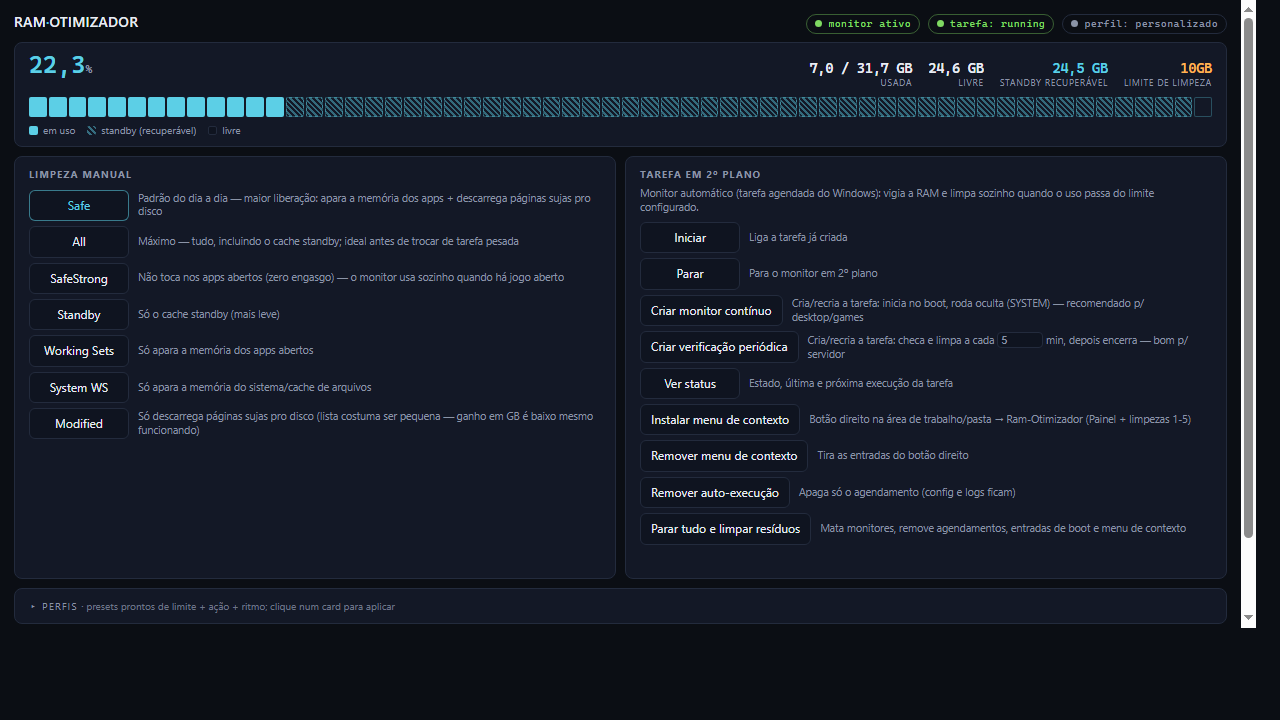
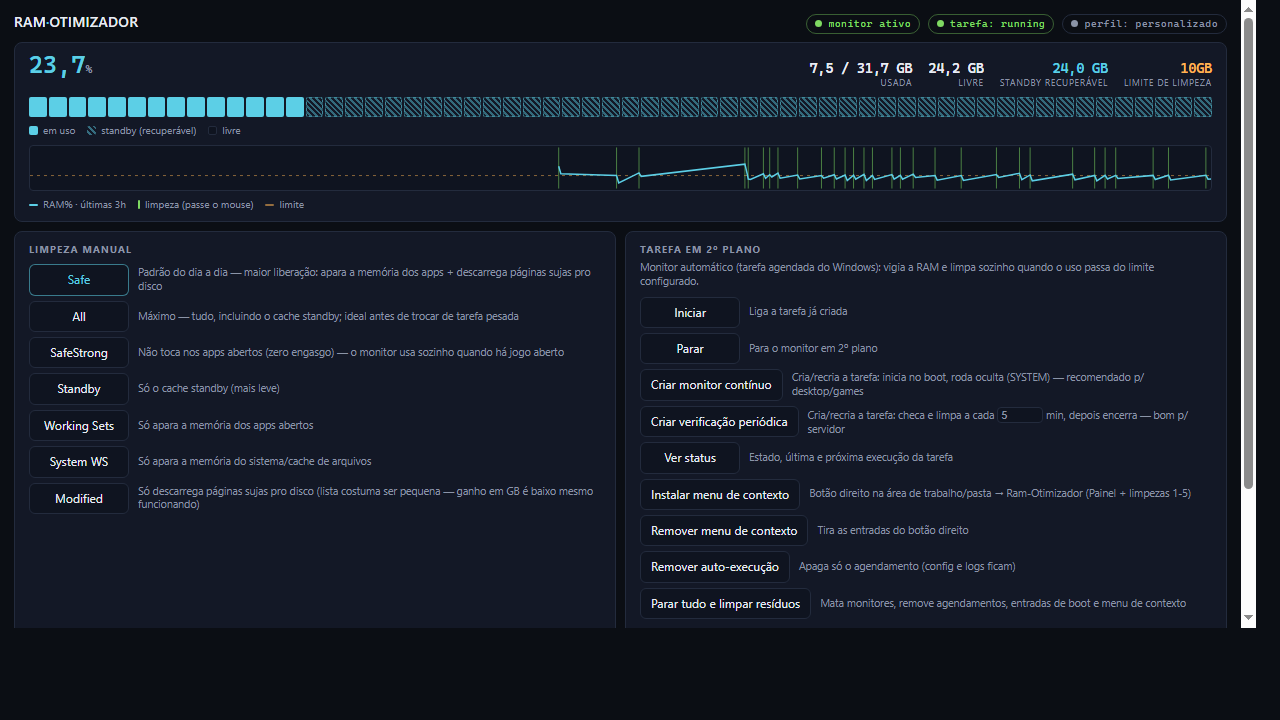
feat: sparkline de RAM na UI (ultimas 3h + marcas de limpeza)
- ui/index.html: SVG puro no hero — linha RAM% (poll 10s + passado
  semeado do cleanup-history via before/after), marca verde por limpeza
  com tooltip (hora, acao, % antes->depois, GB), linha tracejada do limite
- UI-Server: /api/status ganha thresholdPct (resolve % vs GB);
  /api/history ganha afterPercent
- docs/ui-screenshot.png atualizado (mostra o sparkline com dados reais)

diff --git a/ui/index.html b/ui/index.html
@@ -63,6 +63,9 @@ header h1 b{color:var(--cool);font-weight:600}
 #stick i.sb{background:repeating-linear-gradient(45deg,transparent,transparent 2px,color-mix(in srgb,var(--cool) 45%,transparent) 2px,color-mix(in srgb,var(--cool) 45%,transparent) 4px);border-color:color-mix(in srgb,var(--cool) 30%,transparent)}
 .legend{display:flex;gap:12px;margin-top:6px;font-size:10px;color:var(--muted)}
 .legend i{display:inline-block;width:9px;height:9px;border-radius:2px;margin-right:5px;vertical-align:-1px}
+/* sparkline: RAM% das últimas horas + marcas de limpeza */
+#spark{display:block;width:100%;height:46px;margin-top:8px;background:var(--panel2);
+  border:1px solid var(--line);border-radius:4px}
 
 /* ===== [CSS] Grid de cards ===== */
 .grid{display:grid;grid-template-columns:1fr 1fr;gap:9px}
@@ -149,6 +152,13 @@ summary .hint{letter-spacing:0;text-transform:none;font-size:10px;color:var(--mu
     <span><i id="lgUsed" style="background:var(--heat)"></i>em uso</span>
     <span><i style="background:repeating-linear-gradient(45deg,transparent,transparent 2px,#5CCFE677 2px,#5CCFE677 4px)"></i>standby (recuperável)</span>
     <span><i style="background:var(--panel2);border:1px solid var(--line)"></i>livre</span>
+  </div>
+  <svg id="spark" viewBox="0 0 600 60" preserveAspectRatio="none" role="img"
+       aria-label="Uso de RAM nas últimas 3 horas com marcas de limpeza"></svg>
+  <div class="legend">
+    <span><i style="background:var(--cool);height:2px;vertical-align:2px"></i>RAM% · últimas 3h</span>
+    <span><i style="background:var(--ok);width:2px"></i>limpeza (passe o mouse)</span>
+    <span><i style="background:var(--heat);height:2px;vertical-align:2px;opacity:.55"></i>limite</span>
   </div>
 </section>
 
@@ -276,6 +286,34 @@ function renderStick(pct, sbPct) {
   $('lgUsed').style.background = col;
 }
 
+/* ===== [JS] Sparkline: RAM% das últimas 3h + marcas de limpeza =====
+   Pontos vivos vêm do poll (1 a cada 10s); o passado é semeado pelo
+   histórico de limpezas (before/after de cada uma). SVG puro, sem lib. */
+const SPARK_MS = 3 * 3600 * 1000, SPARK_STEP = 10000;
+let sparkLive = [], sparkSeed = [], sparkMarks = [], sparkThr = null;
+function pushSpark(pct) {
+  const t = Date.now(), last = sparkLive[sparkLive.length - 1];
+  if (last && t - last.t < SPARK_STEP) return;
+  sparkLive.push({ t, pct });
+  while (sparkLive.length && sparkLive[0].t < t - SPARK_MS) sparkLive.shift();
+  drawSpark();
+}
+function drawSpark() {
+  const t1 = Date.now(), t0 = t1 - SPARK_MS;
+  const X = t => ((t - t0) / SPARK_MS * 600).toFixed(1);
+  const Y = p => (58 - p / 100 * 56).toFixed(1);
+  const vec = 'vector-effect="non-scaling-stroke"';
+  let out = '';
+  if (sparkThr != null)
+    out += `<line x1="0" x2="600" y1="${Y(sparkThr)}" y2="${Y(sparkThr)}" stroke="var(--heat)" stroke-dasharray="3 4" opacity=".5" ${vec}/>`;
+  sparkMarks.forEach(m => { if (m.t >= t0)
+    out += `<line x1="${X(m.t)}" x2="${X(m.t)}" y1="2" y2="58" stroke="var(--ok)" opacity=".55" ${vec}><title>${m.txt}</title></line>`; });
+  const pts = sparkSeed.filter(p => p.t >= t0).concat(sparkLive).sort((a, b) => a.t - b.t);
+  if (pts.length > 1)
+    out += `<polyline fill="none" stroke="var(--cool)" stroke-width="1.5" ${vec} points="${pts.map(p => X(p.t) + ',' + Y(p.pct)).join(' ')}"/>`;
+  $('spark').innerHTML = out;
+}
+
 /* ===== [JS] Poll de status (2s) — também mantém o server vivo ===== */
 let pollFails = 0;
 async function poll() {
@@ -291,6 +329,8 @@ async function poll() {
     $('stThr').textContent = s.threshold;
     const sbPct = s.standbyMB >= 0 ? (s.standbyMB / 1024) / m.TotalMemoryGB * 100 : 0;
     renderStick(m.PercentUsed, sbPct);
+    sparkThr = s.thresholdPct ?? null;
+    pushSpark(m.PercentUsed);
 
     setPill('pillMon', s.monitor.running, s.monitor.running ? 'monitor ativo' : 'monitor inativo');
     const ts = s.taskState;
@@ -425,6 +465,16 @@ async function loadHistory() {
   const peak = d.rows.reduce((a, r) => Math.max(a, r.beforePercent), 0);
   $('h_freed').textContent = fmt(freed, 1) + ' GB';
   $('h_peak').textContent = fmt(peak, 0) + '%';
+  // Semeia o sparkline com o passado: before/after de cada limpeza + marca
+  sparkSeed = []; sparkMarks = [];
+  d.rows.forEach(r => {
+    const t = new Date(r.ts).getTime();
+    if (isNaN(t)) return;
+    sparkSeed.push({ t, pct: r.beforePercent });
+    if (r.afterPercent != null) sparkSeed.push({ t: t + 20000, pct: r.afterPercent });
+    sparkMarks.push({ t, txt: `${r.ts.slice(11, 16)} ${r.action}: ${r.beforePercent}% → ${r.afterPercent}% (−${fmt(r.freedGB, 2)} GB)` });
+  });
+  drawSpark();
 }
 
 loadProfiles(); loadConfig(); loadLogs(); loadHistory();

diff --git a/__navi__.md b/__navi__.md
@@ -16,8 +16,8 @@ DEV_TO_ARTICLE.md(219)  LAUNCH_CHECKLIST.md(118)  README.md(310)  REDDIT_TEMPLAT
 monitor-status.json(17)
 
 ## `scripts/` (9 files) → __navi__.md
-Configurar-AutoExecucao.ps1(317)  Dashboard-RAM.ps1(212)  LimparRAM-Inteligente.ps1(557)  Limpeza-ContextMenu.ps1(25)  Menu.ps1(241)  RamCommon.ps1(733)  Teste-LimparRAM.ps1(167)  UI-Server.ps1(387)  test-RamConfig.ps1(58)
+Configurar-AutoExecucao.ps1(317)  Dashboard-RAM.ps1(212)  LimparRAM-Inteligente.ps1(557)  Limpeza-ContextMenu.ps1(25)  Menu.ps1(241)  RamCommon.ps1(733)  Teste-LimparRAM.ps1(167)  UI-Server.ps1(389)  test-RamConfig.ps1(58)
 
 ## `ui/` (1 files) → __navi__.md
-index.html(434)
+index.html(484)
 

diff --git a/scripts/__navi__.md b/scripts/__navi__.md
@@ -14,8 +14,8 @@
 - **RamCommon.ps1** (733 ln)
   <sub>L46:Test-Admin  L55:Set-RAMMapEulaKey  L65:Resolve-RAMMap  L161:Initialize-NativeClean  L175:Invoke-NativeCleanStep  L195:Clear-RamOldLogs  L215:Get-RamConfigSchema  L239:Get-RamConfigComments  L260:Convert-RamLegacyConfig  L275:Backup-RamInvalidConfig  L291:ConvertTo-RamIntSetting  L315:ConvertTo-RamBoolSetting  L334:ConvertFrom-RamThresholdToken  L353:ConvertTo-RamThresholdSetting  L376:Normalize-RamConfig  L423:Read-RamConfig  L453:Write-RamConfig  L471:ConvertTo-UsagePercentToken  L488:Resolve-UsageThresholdPercent  L500:Format-UsageThreshold  L520:Get-RamProfiles  L581:Apply-RamProfile  L601:Get-MemoryStats  L616:Get-StandbyListMB …</sub>
 - **Teste-LimparRAM.ps1** (167 ln)
-- **UI-Server.ps1** (387 ln)
-  <sub>L77:Send-Json  L86:Send-Text  L95:Read-JsonBody  L106:Get-UiStatus  L141:Invoke-UiClean  L165:Set-UiTask  L230:Invoke-UiRoute</sub>
+- **UI-Server.ps1** (389 ln)
+  <sub>L77:Send-Json  L86:Send-Text  L95:Read-JsonBody  L106:Get-UiStatus  L142:Invoke-UiClean  L166:Set-UiTask  L231:Invoke-UiRoute</sub>
 - **test-RamConfig.ps1** (58 ln)
   <sub>L9:Check</sub>
 

diff --git a/ui/__navi__.md b/ui/__navi__.md
@@ -2,5 +2,5 @@
 <!-- navindex · 2026-07-13 · DO NOT EDIT BY HAND; regen via navindex skill -->
 ↑ repo tree: [`../__navi__.md`](../__navi__.md)
 
-- **index.html** (434 ln)
+- **index.html** (484 ln)
 